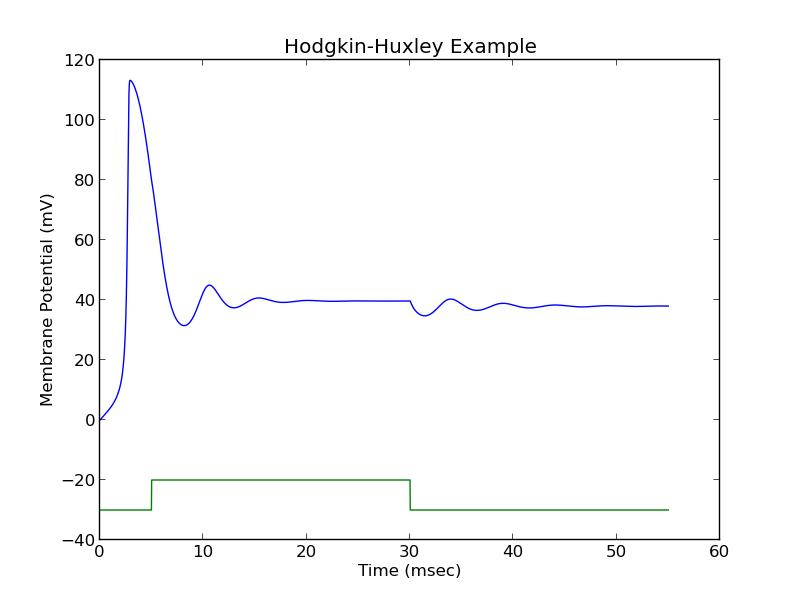
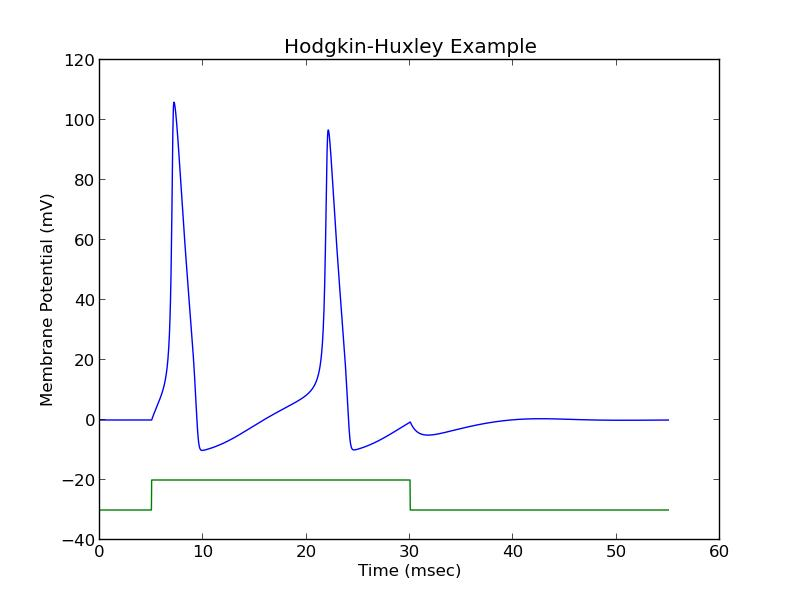
fix the model by fixing the parameter for potassium conductance

diff --git a/model.py b/model.py
@@ -40,7 +40,7 @@ time = np.arange(0, T+dt, dt)
 restingVoltage     = 0      # V_rest (mv)
 Cm                 = 1      # uF/cm2
 gBarNa             = 120    # mS/cm2
-gBarK              = 3      # mS/cm2
+gBarK              = 36     # mS/cm2
 gBarL              = 0.3    # mS/cm2
 sodiumPotential    = 115    # mV
 potassiumPotential = -12    # mv

diff --git a/README.md b/README.md
@@ -10,8 +10,7 @@ that the voltage signal travels down the axon of a neuron until it reaches anoth
 
 Todo
 =====
-* Fix the model. It plots but the plot looks kinda weird so one of the equations must be wrong
-
+* ~~Fix the model. It plots but the plot looks kinda weird so one of the equations must be wrong~~
 
 ![](model.jpg)
 ![](mhn.jpg)
